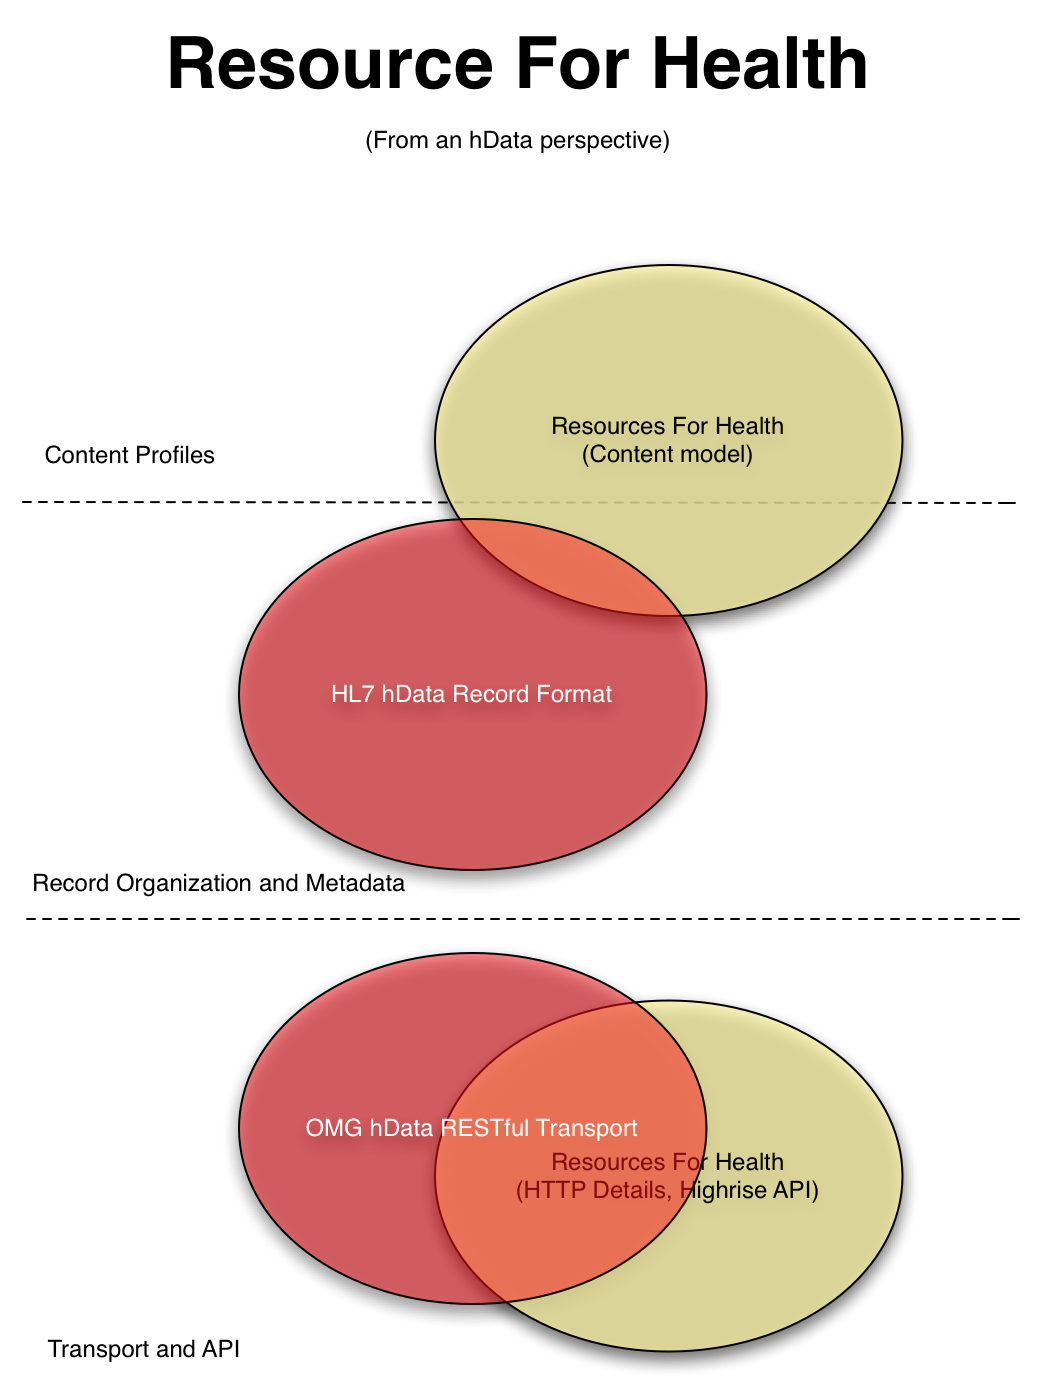
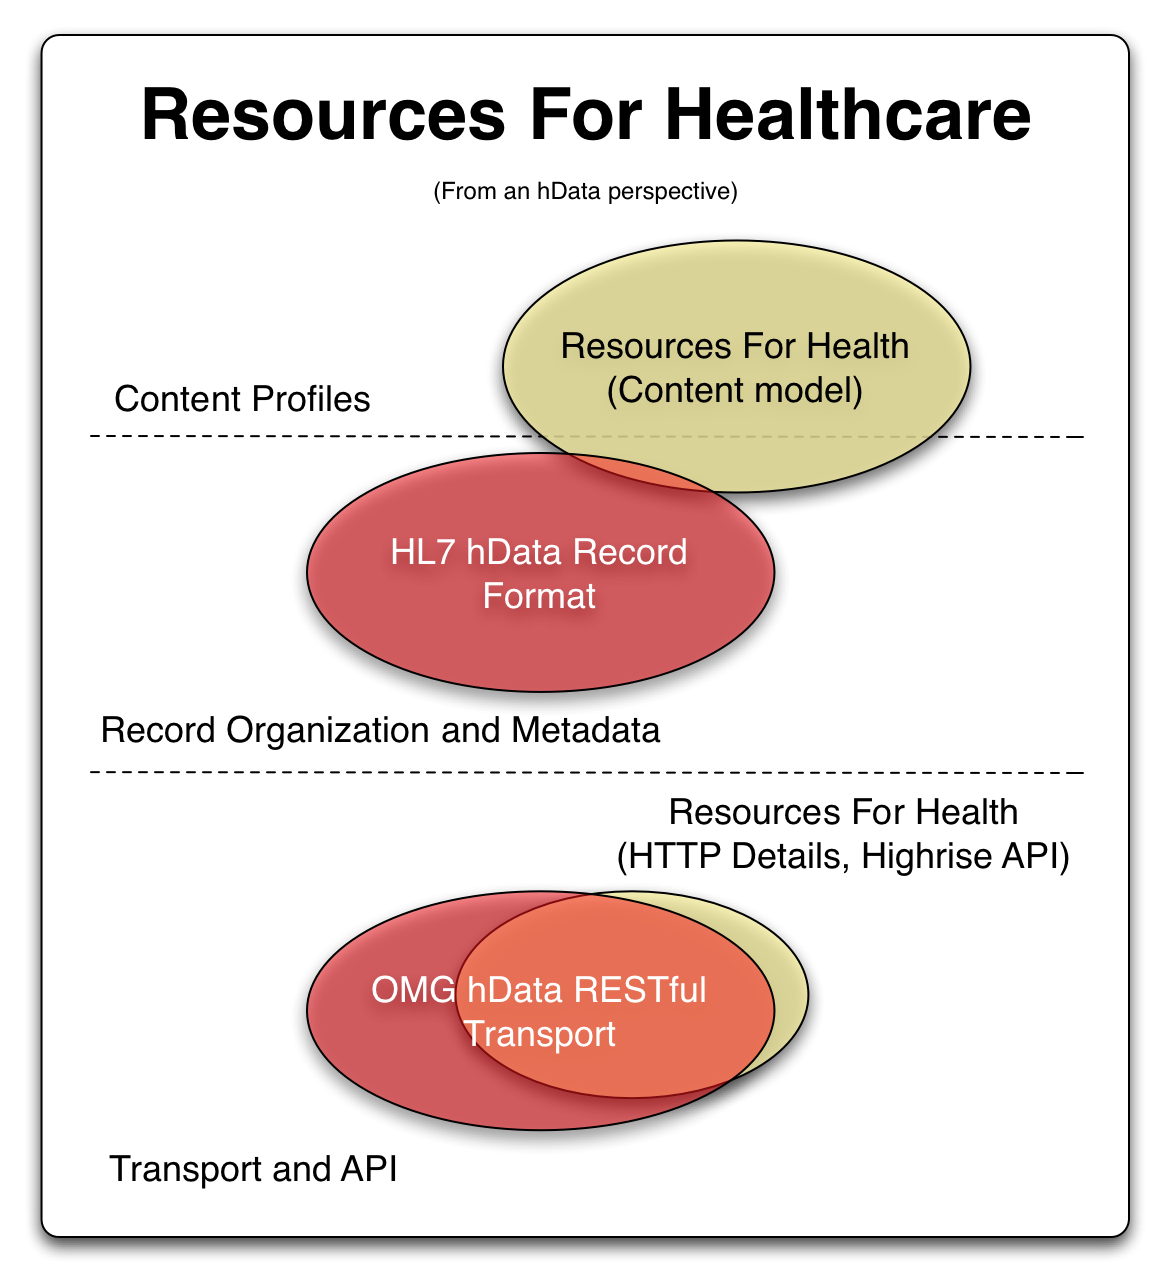
update faq

diff --git a/faq.html b/faq.html
@@ -12,14 +12,12 @@ selected: faq
   	<li><a href="#whatIshData">What is hData?</a></li>
   	<li><a href="#exchange">How will hData be used to exchange EHR health data?</a></li>
   	<li><a href="#submitted">What is the standardization status of hData?</a></li>
-  	<li><a href="#rfh">How does hData relate to the recently proposed Resource For Healthcare idea?</a></li>
-  	<li><a href="#license">What are the open source licensing details associated with hData?</a></li>
-
-  	<li><a href="#contribute">Can I contribute software source code to hData?</a></li>
-  	<li><a href="#standards">What standards will hData use?</a></li>
+  	<li><a href="#rfh">How does hData relate to the recently proposed Resources For Healthcare idea?</a></li>
+  	<li><a href="#simple">Isn't hData all about simplified data models, XML, and that stuff?</a></li>
+  	<li><a href="#using">Who is using hData?</a></li>
+  	<li><a href="#models">Where will all the data models and their rendering come from?</a></li>
     <li><a href="#vendor">Do I need to be an EHR vendor to use hData?</a></li>
     <li><a href="#languages">What programming languages will hData use?</a></li>
-    <li><a href="#background">What is the background of hData?</a></li>
     <li><a href="#significance">What is the significance of the name hData?</a></li>
   </ul>
   <div class="questionAnswer firstQuestion">
@@ -39,29 +37,28 @@ selected: faq
   </div>
   <div class="questionAnswer">
   	<div class="question" id="submitted">What is the standardization status of hData?</div>
-  	<p>Please check the <a href="/standardization.html">Standardization</a> page for a detailed status. The goal is to make all of hData a nationally and internationally recognized standard.</p>
+  	<p>hData has been reviewed by HL7 and OMG and is in the process of becoming a normative standarf. Please check the <a href="/standardization.html">Standardization</a> page for a detailed status. </p>
   </div>
   <div class="questionAnswer">
-  	<div class="question" id="rfh">How does hData relate to the recently proposed Resource For Healthcare idea?</div>
+  	<div class="question" id="rfh">How does hData relate to the recently proposed Resource For Healthcare idea?</div><img src="/images/RFH View.png" width="250px" style="float:right" />
     <p><a href="http://www.healthintersections.com.au/rfh/introduction.htm">Resources For Healthcare (RFH)</a> was recently (09-2011) proposed as a reponse to the HL7 Fresh Look Task Force question: "How would a complete health IT software stack look like, if HL7 re-did it today?"</p>
-    <img src="/images/RFH View.png" width="250px" style="float:right" /> 
+     
     <p>Conceptually, RFH is using a RESTful transport to allow the exchange of the simplified content. There is a signficant overlap with hData of the way transport within the RFH proposal is realized, so that it should be quite easy to reformulate RFH in hData terms. Based on discussions with the RFH authors, they are starting to find similar issues that drove hData development (such as metadata definition) - these problems have largely been solved within hData.</p>
-    <p>Going forward, the RFH content model can be understood as a hData Content profile. </p>
+    <p>Going forward, the RFH content model can be understood as a hData Content profile. This will require some work on the OMG hData RESTful Transport, and the formulation of a comprehensive HCP covering the RFH data model. </p>
     </p>
   </div>
   <div class="questionAnswer">
-  	<div class="question" id="license">What are the open source licensing details associated with hData?</div>
-  	<p>hData is licensed under the <a href="http://www.apache.org/licenses/LICENSE-2.0" target="_external">Apache 2.0 open source license</a>.</p>
-  </div>
-  
-  <div class="questionAnswer">
-  	<div class="question" id="contribute">Can I contribute software source code to hData?</div>
-  	<p>Code contributions will be accepted to hData as bug fixes and new feature proposals.</p>
+  	<div class="question" id="simple">Isn't hData all about simplified data models, XML, and that stuff?</div>
+  	<p>When hData was started by MITRE, one of the guiding principles in creating hData was (and still is!) developer friendliness and simple-to-implement. Part of this approach was to create a number of HITSP C32 derived schemas covering a simple continuity of care profile. When we created these schemas (which are still available in the github repository) we understood them to be placeholders for simplified schemas and models derived from a comprehensive clinical information model through a more rigourous process.</p>
+  	<p>With the advent of HL7 greeCDA, RFH, DCMs, and similar approaches, HL7 is now able to start developing such simplified models that can be vetted by the clinical subject matter experts.</p>
   </div>
   <div class="questionAnswer">
-  	<div class="question" id="standards">What standards will hData use?</div>
-  	<p>hData is built using <a href="http://www.w3.org/XML/" target="_external">XML</a>, using <a href="http://www.w3.org/XML/Schema" target="_external">W3C XML Schema</a> to specify the grammar. The structure of hData closely resembles the <a href="http://en.wikipedia.org/wiki/OpenDocument" target="_external">OpenDocument Format</a>.</p>
-    <p>hData can be used to meet a number of health data needs, but initially, we are focusing on Continuity of Care. As such, much of the data vocabularies defined in hData model themselves after the <a href="http://en.wikipedia.org/wiki/Continuity_of_Care_Document" target="_external">HL7 CCD</a> and <a href="http://www.astm.org/Standards/E2369.htm" target="_external">ASTM CCR</a>.</p>
+  	<div class="question" id="using">Who is using hData?</div>
+  	<p>Since hData was until recently actively being developed from a standards perspective, there have so far been only a few limited proof-of-concepts and pilots. As hData is now stablizing, there are a number of projects starting to use hData. At the September 2011 workgroup meeting, the HL7 SOA and Pharmacy workgroups have agreed to create an hData content profile for Pharmacy. This work will be sponsored by epSOS, Cerner, MITRE, and others. Other projects are expected to follow soon. </p>
+  </div>
+  <div class="questionAnswer">
+  	<div class="question" id="models">Where will all the data models and their rendering come from?</div>
+  	<p>hData seprates the technical framework (packaging, metadata, transport, security, etc.) strongly from the content modeling aspect of health IT. As a result, the hData specification are largely content agnostic and will rely on clinical subject matter experts and data modelers to create hData Content Profiles specifying the payload model and rendering. This can happen at a variety of places, including within the domain specific working groups with existing standards development organizations, such as HL7. In fact, this process has already started, with the Pharmacy WG at HL7 agreeing to create an hData Content Profile for a medications service. Other workgroups are expected to follow soon. </p>
   </div>
   <div class="questionAnswer">
   	<div class="question" id="vendor">Do I need to be an EHR vendor to use hData?</div>
@@ -70,14 +67,6 @@ selected: faq
   <div class="questionAnswer">
   	<div class="question" id="languages">What programming languages will hData use?</div>
     <p>hData is based on XML, so it can be used with virtually any programming language. The MITRE team is working on developer kits in <a href="http://www.ruby-lang.org/en/" target="_external">Ruby</a> and <a href="http://www.java.com/en/" target="_external">Java</a>. The hData project will gladly accept any contributions for generating or consuming hData in other programming languages.</p>
-  </div>
-  <div class="questionAnswer">
-  	<div class="question" id="background">What is the background of hData?</div>
-  	<p>Electronic documentation of health care data is currently at the heart of the U.S. national discussion on healthcare reform. Electronic health records (EHRs) have the potential to increase physician efficiency, reduce costs, and promote standardized care. However, health data exchange interoperability and other usability issues have plagued system-wide adoption and have thus limited the expected benefits. hData offers a solution to these problems by using a simple XML framework for the creation, storage, and exchange of health data.</p>
-    <p>Standards development of EHRs began with Health Level Seven (HL7) in the late 1980s. HL7, comprised of healthcare subject matter experts and information scientists, developed standards for the exchange, management, and integration of electronic healthcare information. The group first created the clinical document architecture (CDA), which was designed to address most of the documentation needs of any health care system. Consequently, this approach made the schema extremely flexible but overly complex, hard to implement interoperably, and difficult to manage. Around the same time, in a separate effort, a simplified continuity of care record (CCR)--not based on the CDA-- was created. Eventually, ASTM International, a highly regarded standards organization, adopted the CCR as its continuity of care record standard.</p>
-    <p>Later, HL7 reconciled its standards with ASTM by taking data elements from the CCR and encoding them in the CDA, resulting in a new standard called the Continuity of Care Document (CCD). The American National Standards Institute (ANSI) and its affiliated Health Information Technology Standards Panel (HITSP) recommended the CCD as an input standard for creating a national continuity of care standard. The result was initially published as the HITSP Construct 32 standard (C32), which has since expanded and grown more complex.</p>
-    <p>CDA, C32, and related standards contain a number of significant shortfalls. These include the repeated use of overly abstract data structures and underspecified implementation, including lack of normative schema, lack of a clearly profiled code system, and imprecise data types. HITSP has recognized the complexity of these existing standards and completed an effort to “streamline” documentation on how to use them. However, while this document reordering may provide some help, exchanging continuity of care information will still take place in the same overly complex format, and the entire existing HITSP framework is not always able to deliver a comprehensive, interoperable set of specifications.</p>
-    <p>hData was created to address these shortcomings. hData lowers the barrier to Health IT integration by focusing on ease of implementation.</p>
   </div>
   <div class="questionAnswer">
   	<div class="question" id="significance">What is the significance of the name hData?</div>
